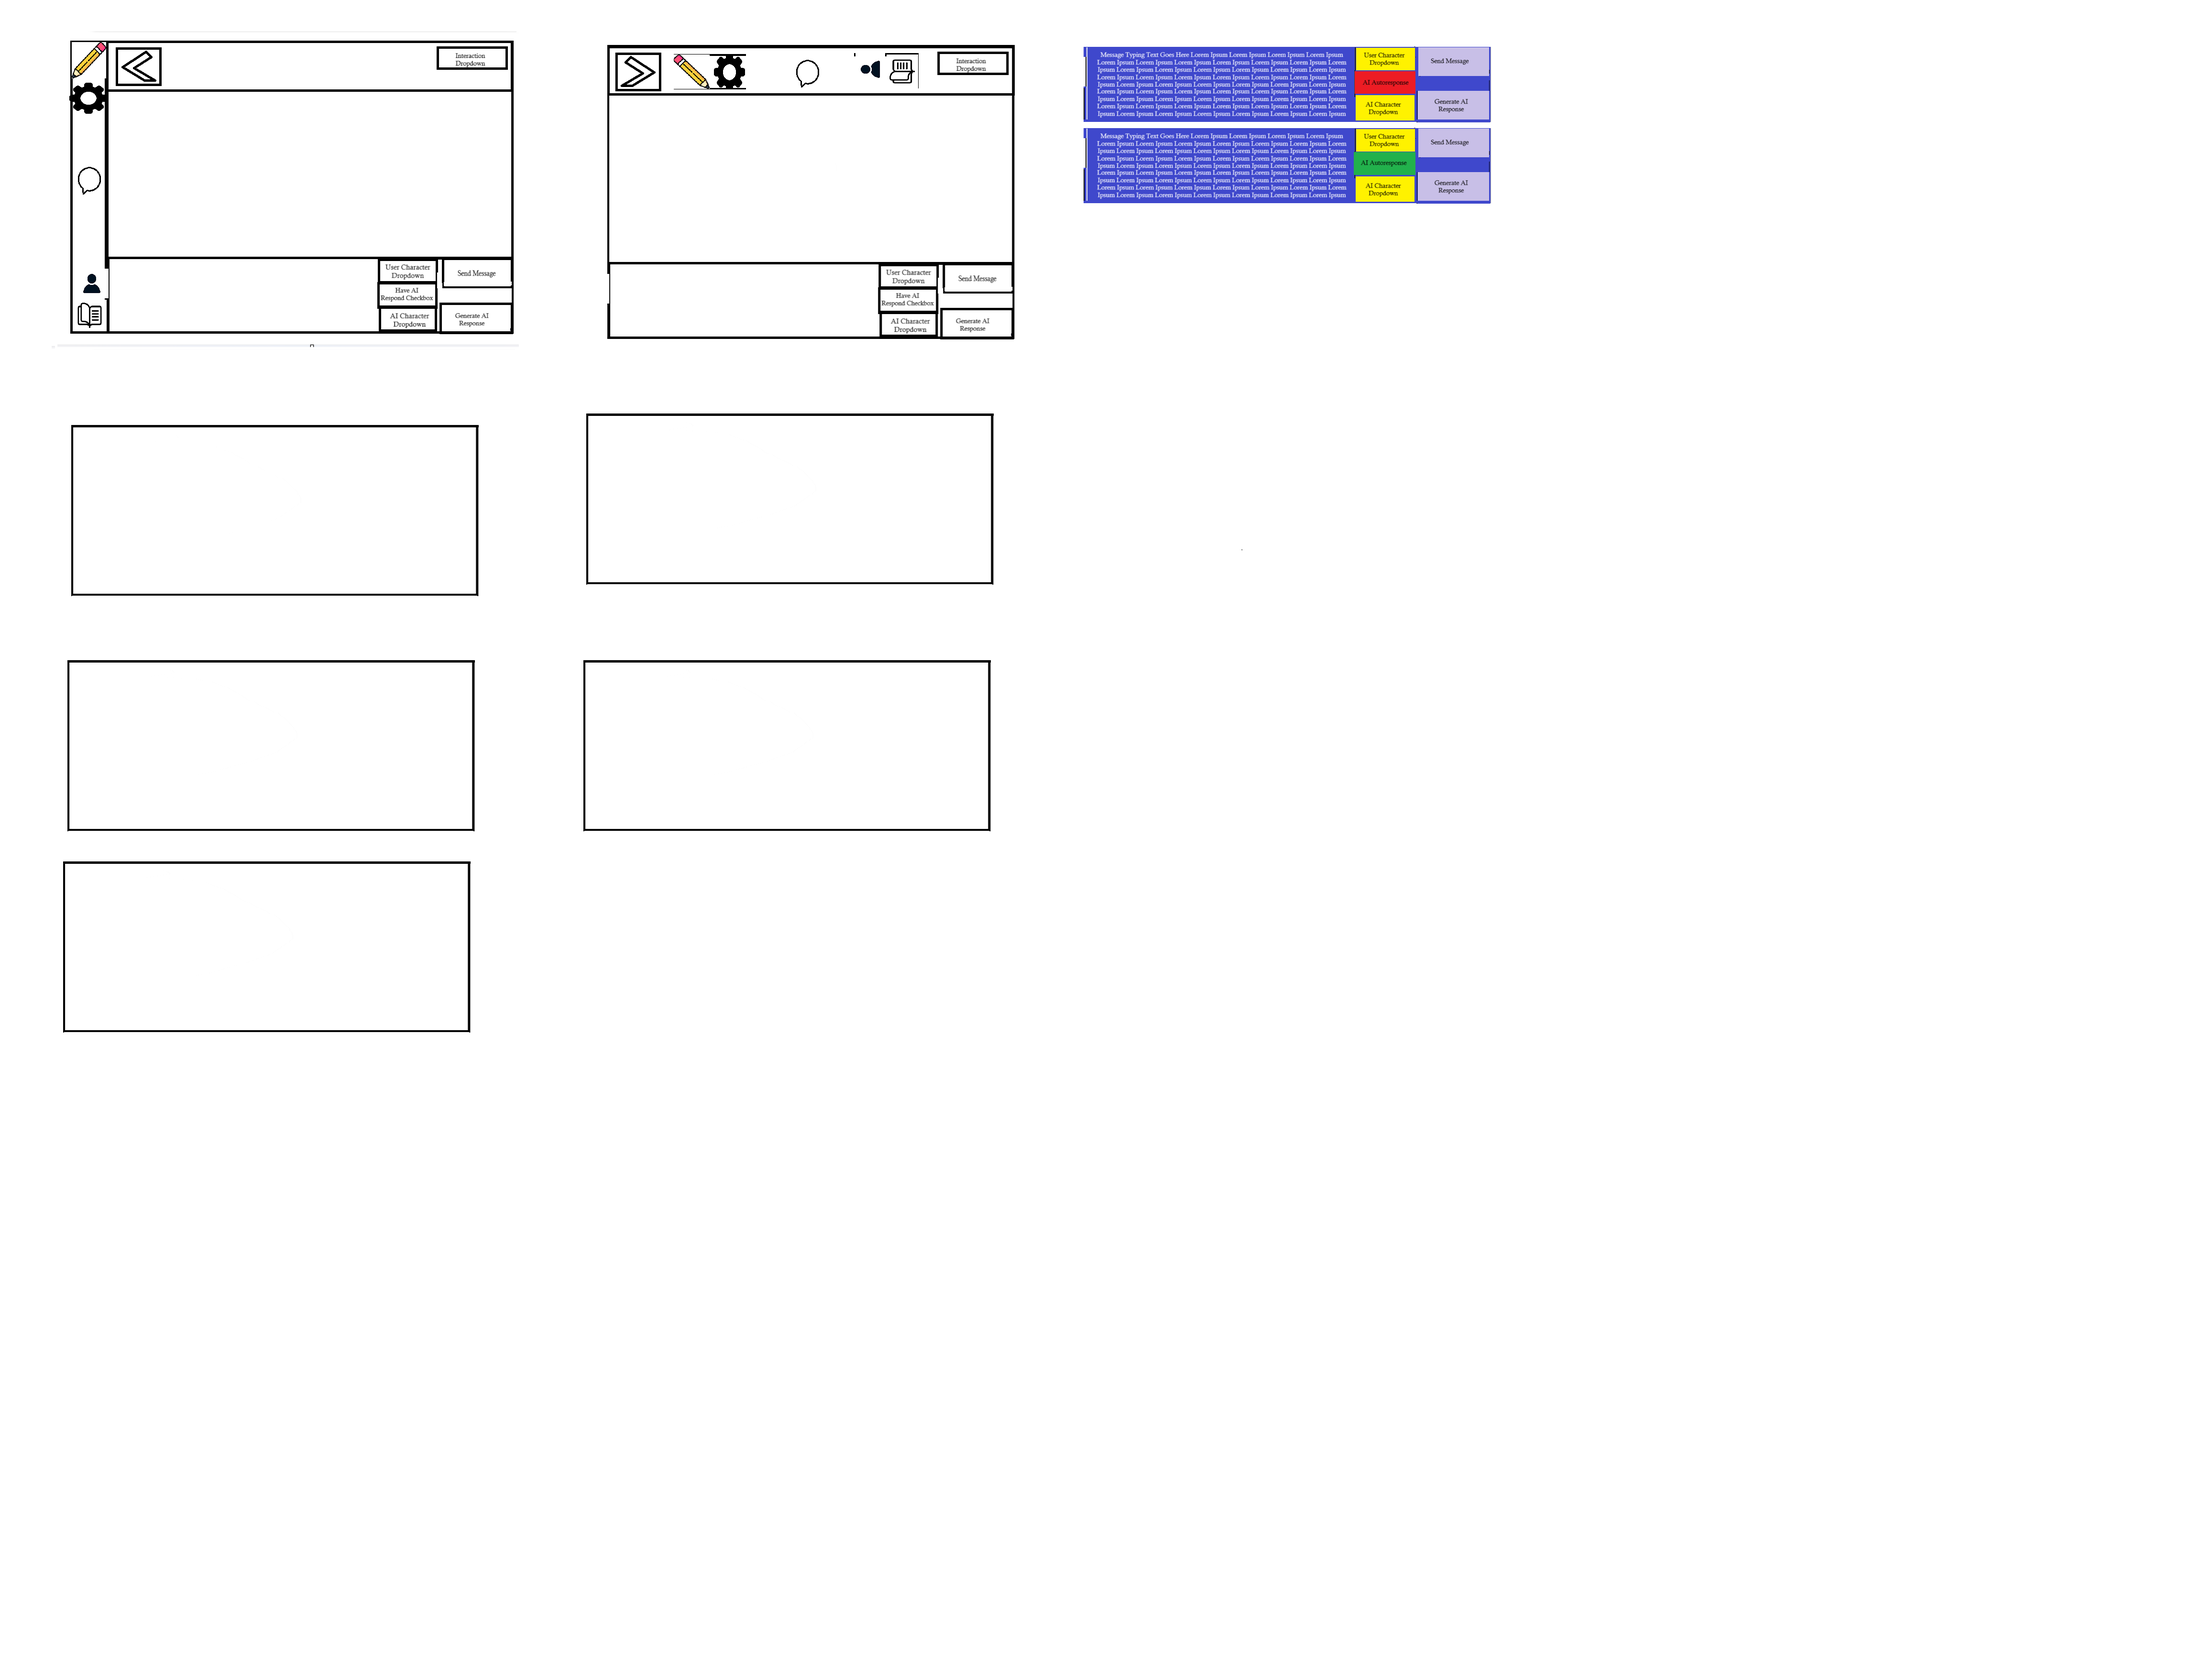
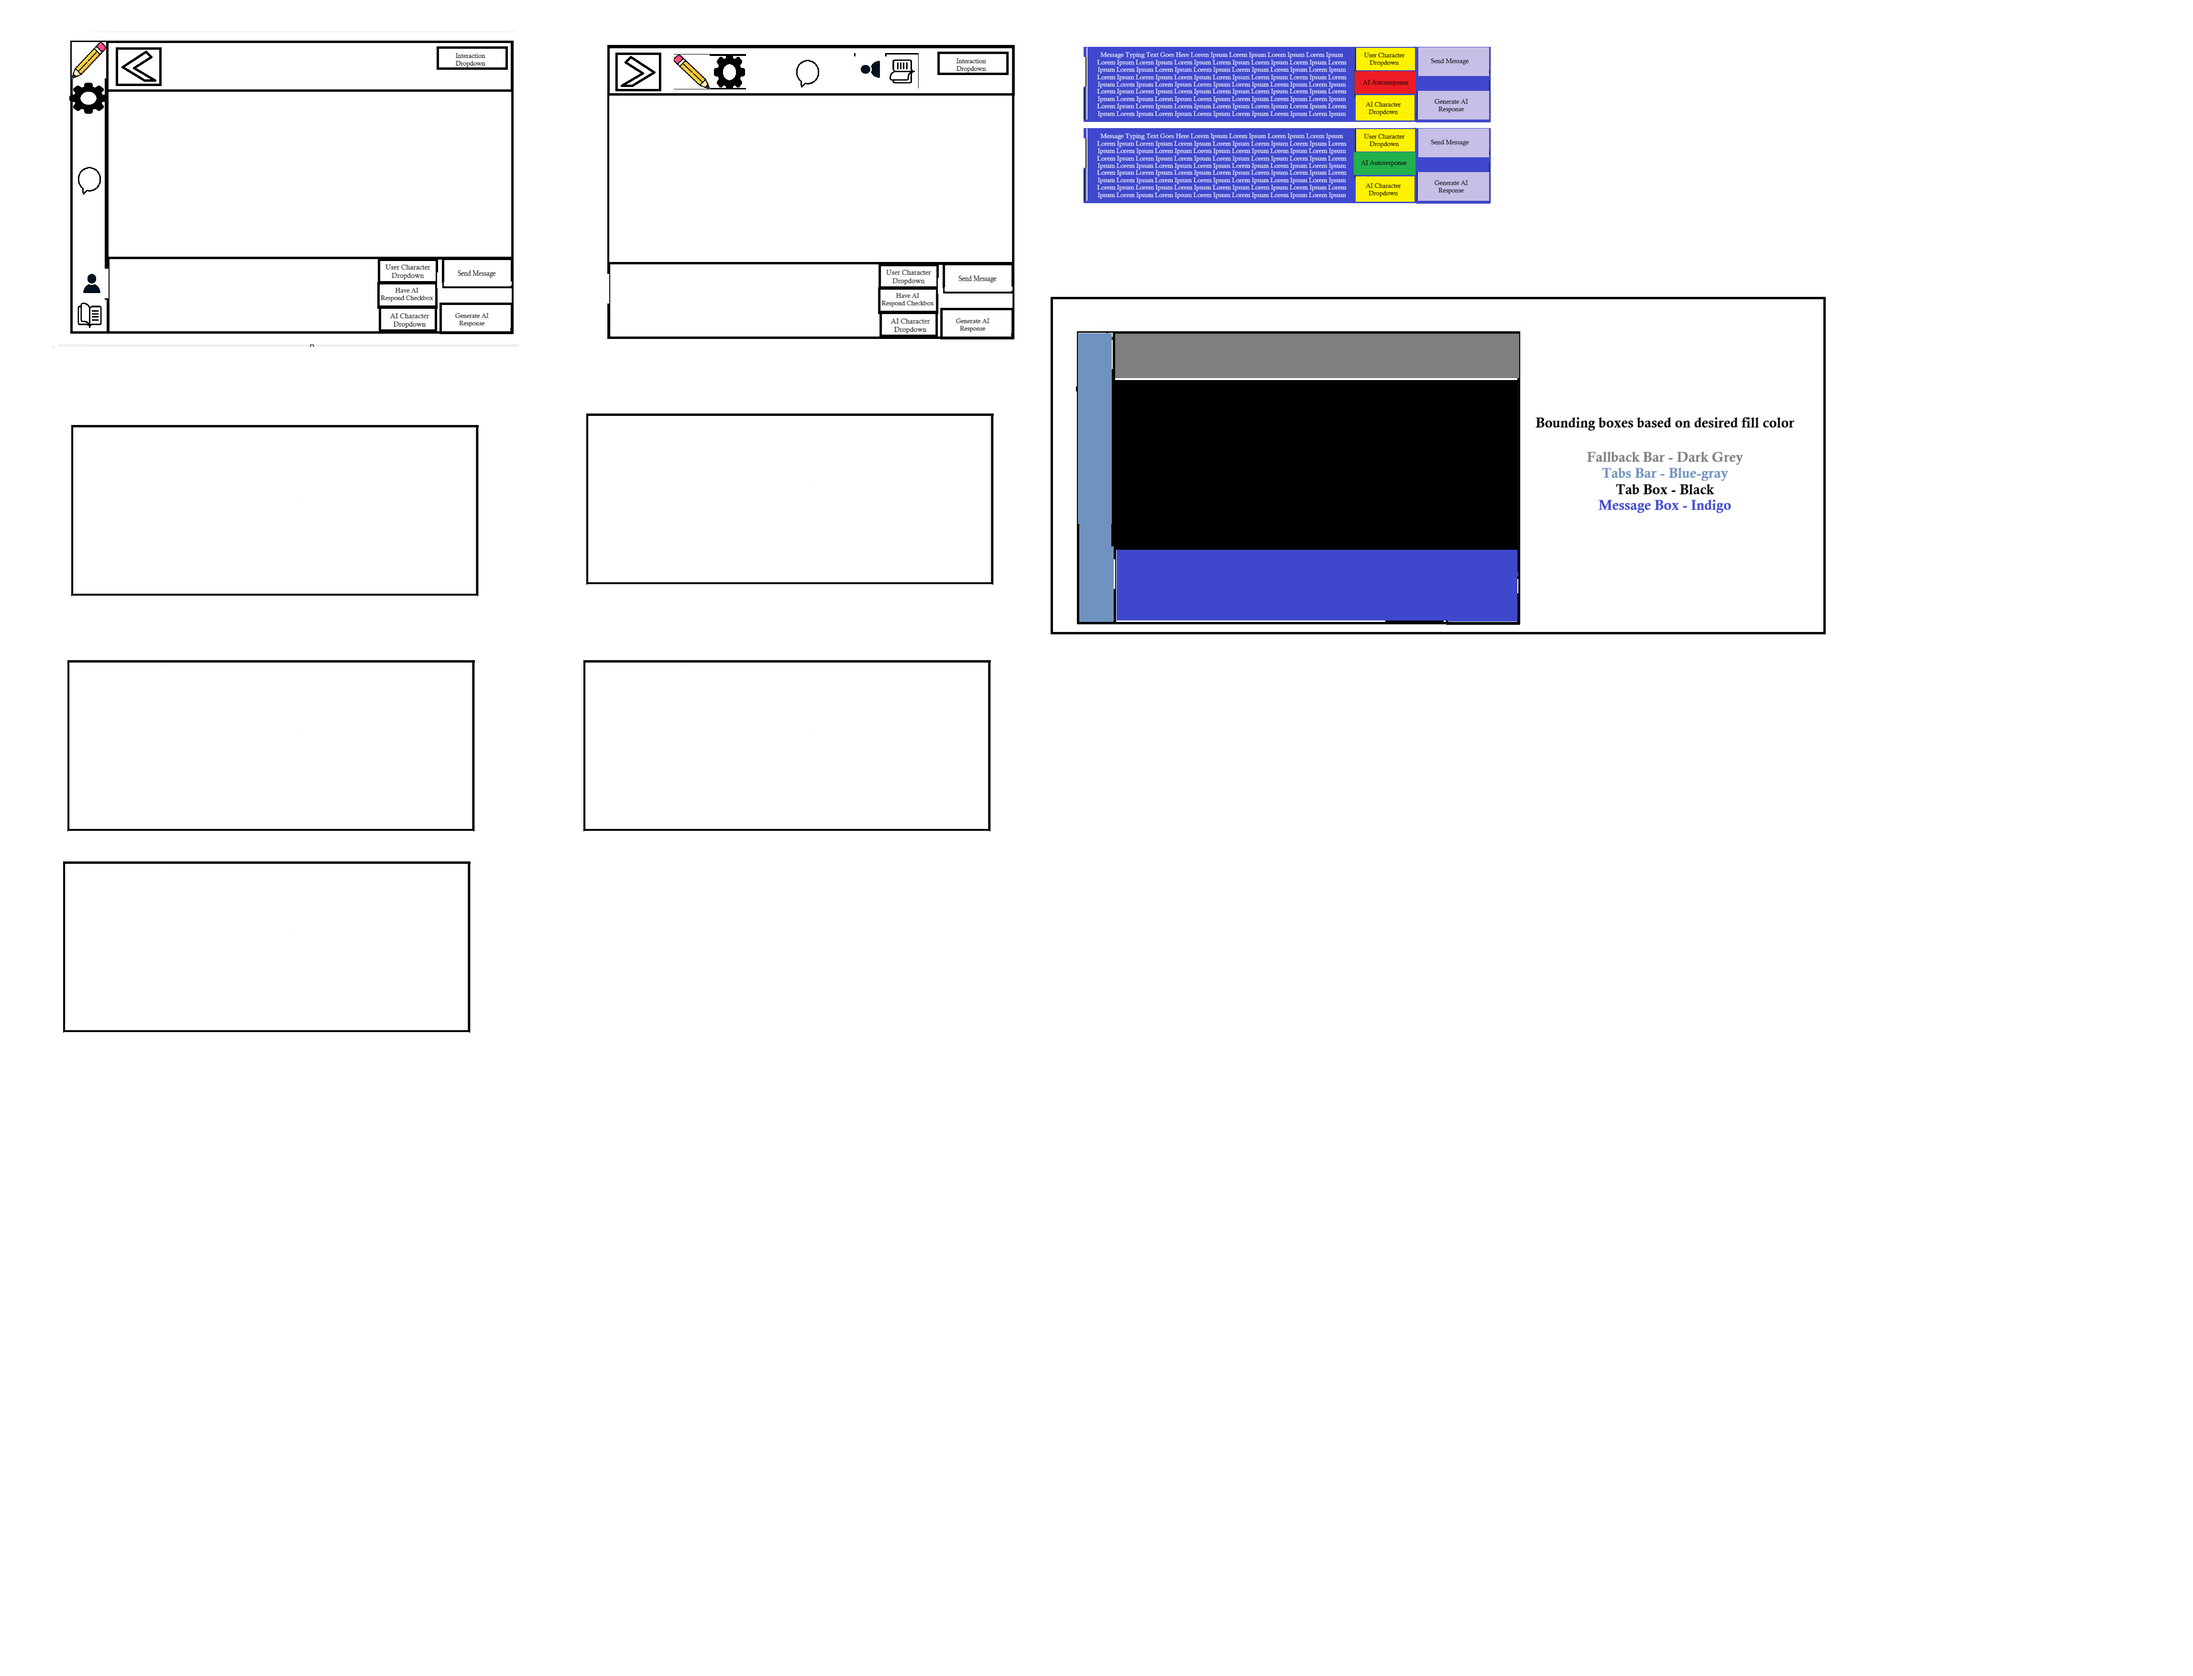
updated blueprint
specified bounding boxes

Changed region(s): [[0.4677, 0.1865, 0.8107, 0.3731]]

diff --git a/index.html b/index.html
@@ -11,7 +11,7 @@
 	<script type="text/javascript" src="./index.js"></script>
 </head>
 <body>
-	<div class="sticky">
+	<div class="sticky" id="fallback_bar">
 		<button onclick="toggleTabs()">Tabs</button>
 		<br />
 		<select id="interaction" onchange="update();">
